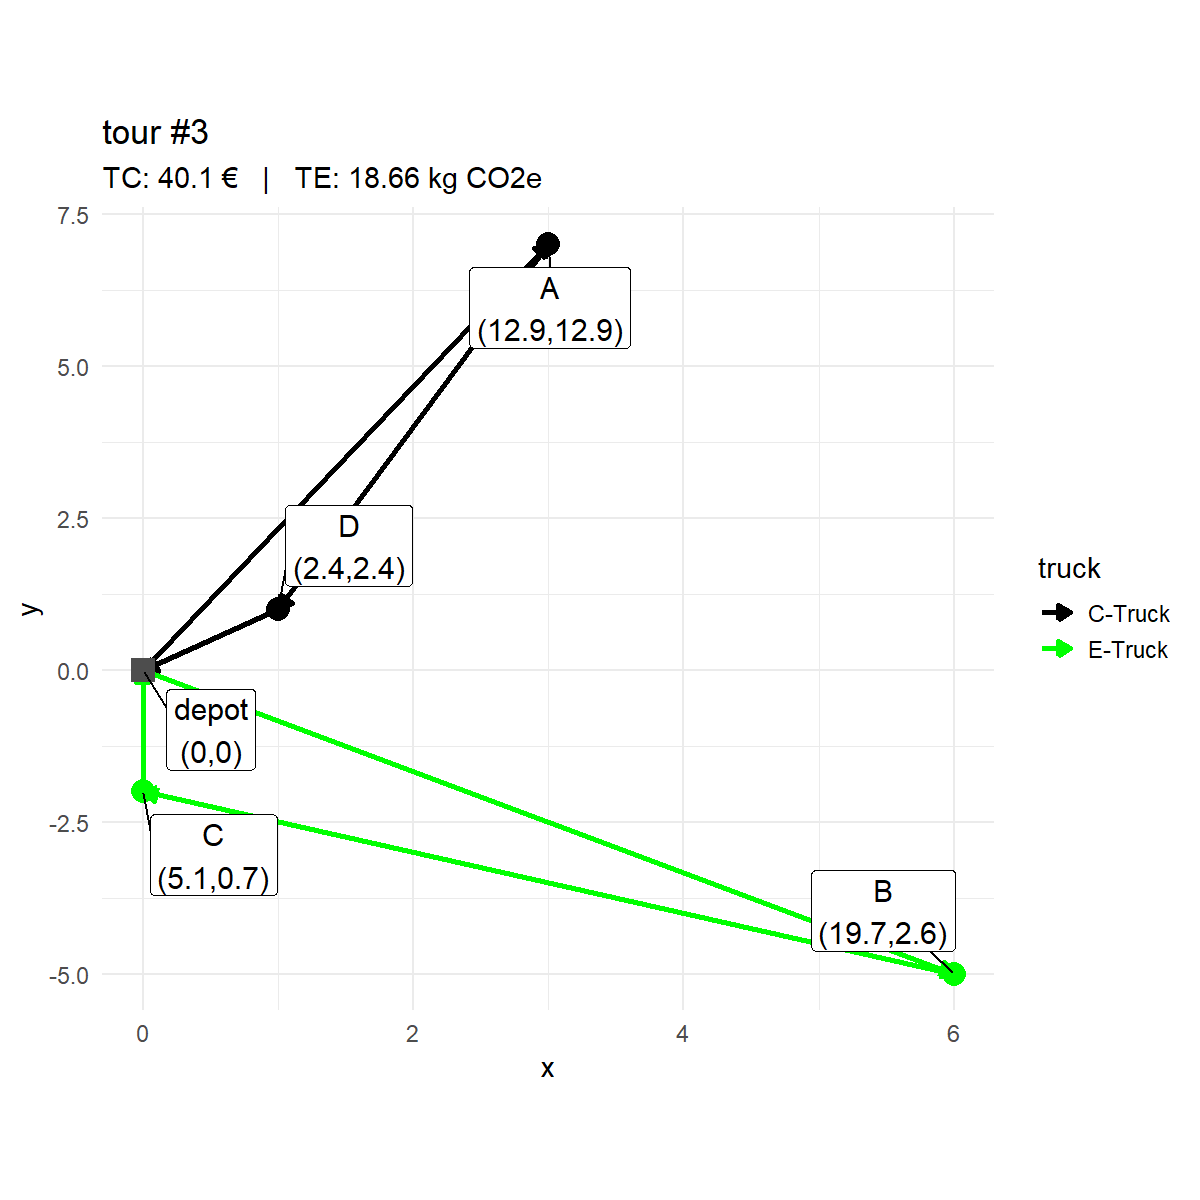
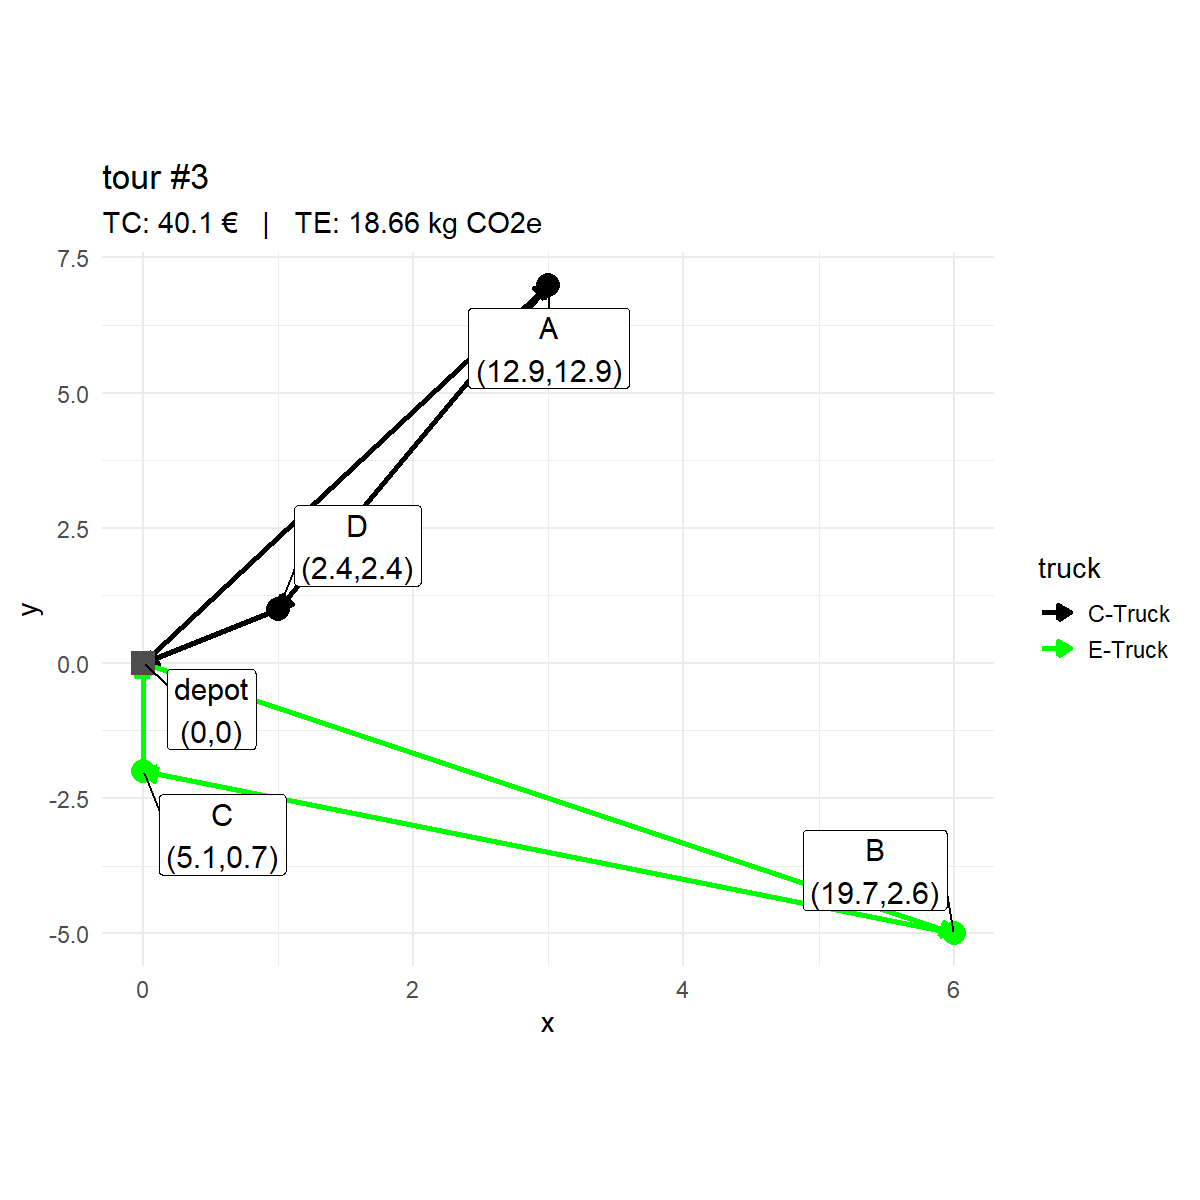
new comit

diff --git a/presentations/RITMO_052026/talk_kirschstein.html b/presentations/RITMO_052026/talk_kirschstein.html
@@ -125,7 +125,7 @@ class: inverse, center, middle
 ]
 --
 .col-50[
-&lt;img src="fig/transporeon_2022_Wtp.png" alt="" width="90%" style="display: block; margin: auto;" /&gt;
+&lt;img src="fig/transporeon_2022_Wtp.png" alt="" width="82%" style="display: block; margin: auto;" /&gt;
 (Jameson, Schack, Egloff et al., 2023) 
 ]
 
@@ -147,7 +147,7 @@ class: inverse, center, middle
 
 ## Motivation - Zulassungen von zero-emission vehicles (ZEV)
 
-&lt;img src="fig/sales_shares_zev.png" alt="" width="90%" style="display: block; margin: auto;" /&gt;
+&lt;img src="fig/sales_shares_zev.png" alt="" width="88%" style="display: block; margin: auto;" /&gt;
 
 (Mulholland and Benoit, 2026) 
 
@@ -156,12 +156,12 @@ class: inverse, center, middle
 ## Motivation - Zulassung von ZEV-LKW in Deutschland
 
 .col-50[
-<div id="htmlwidget-46b28243e946be292178" style="width:500px;height:500px;" class="plotly html-widget"></div>
-<script type="application/json" data-for="htmlwidget-46b28243e946be292178">{"x":{"data":[{"orientation":"v","width":[0.89999999999999991,0.90000000000000013,0.90000000000000036,0.90000000000000036],"base":[20674,24538,19728,35242],"x":[1,2,3,4],"y":[0,1,1,2],"text":["Jahr: 2022<br />Anzahl:     0<br />Technologie: H2","Jahr: 2023<br />Anzahl:     1<br />Technologie: H2","Jahr: 2024<br />Anzahl:     1<br />Technologie: H2","Jahr: 2025<br />Anzahl:     2<br />Technologie: H2"],"type":"bar","textposition":"none","marker":{"autocolorscale":false,"color":"rgba(240,128,128,1)","line":{"width":1.8897637795275593,"color":"transparent"}},"name":"H2","legendgroup":"H2","showlegend":true,"xaxis":"x","yaxis":"y","hoverinfo":"text","frame":null},{"orientation":"v","width":[0.89999999999999991,0.90000000000000013,0.90000000000000036,0.90000000000000036],"base":[18429,21947,17384,33573],"x":[1,2,3,4],"y":[2245,2591,2344,1669],"text":["Jahr: 2022<br />Anzahl:  2245<br />Technologie: LNG","Jahr: 2023<br />Anzahl:  2591<br />Technologie: LNG","Jahr: 2024<br />Anzahl:  2344<br />Technologie: LNG","Jahr: 2025<br />Anzahl:  1669<br />Technologie: LNG"],"type":"bar","textposition":"none","marker":{"autocolorscale":false,"color":"rgba(54,30,71,1)","line":{"width":1.8897637795275593,"color":"transparent"}},"name":"LNG","legendgroup":"LNG","showlegend":true,"xaxis":"x","yaxis":"y","hoverinfo":"text","frame":null},{"orientation":"v","width":[0.89999999999999991,0.90000000000000013,0.90000000000000036,0.90000000000000036],"base":[18352,21916,17107,27382],"x":[1,2,3,4],"y":[77,31,277,6191],"text":["Jahr: 2022<br />Anzahl:    77<br />Technologie: PHEV","Jahr: 2023<br />Anzahl:    31<br />Technologie: PHEV","Jahr: 2024<br />Anzahl:   277<br />Technologie: PHEV","Jahr: 2025<br />Anzahl:  6191<br />Technologie: PHEV"],"type":"bar","textposition":"none","marker":{"autocolorscale":false,"color":"rgba(224,5,20,1)","line":{"width":1.8897637795275593,"color":"transparent"}},"name":"PHEV","legendgroup":"PHEV","showlegend":true,"xaxis":"x","yaxis":"y","hoverinfo":"text","frame":null},{"orientation":"v","width":[0.89999999999999991,0.90000000000000013,0.90000000000000036,0.90000000000000036],"base":[18322,21790,17007,27275],"x":[1,2,3,4],"y":[30,126,100,107],"text":["Jahr: 2022<br />Anzahl:    30<br />Technologie: FC","Jahr: 2023<br />Anzahl:   126<br />Technologie: FC","Jahr: 2024<br />Anzahl:   100<br />Technologie: FC","Jahr: 2025<br />Anzahl:   107<br />Technologie: FC"],"type":"bar","textposition":"none","marker":{"autocolorscale":false,"color":"rgba(155,127,238,1)","line":{"width":1.8897637795275593,"color":"transparent"}},"name":"FC","legendgroup":"FC","showlegend":true,"xaxis":"x","yaxis":"y","hoverinfo":"text","frame":null},{"orientation":"v","width":[0.89999999999999991,0.90000000000000013,0.90000000000000036,0.90000000000000036],"base":[0,0,0,0],"x":[1,2,3,4],"y":[18322,21790,17007,27275],"text":["Jahr: 2022<br />Anzahl: 18322<br />Technologie: BEV","Jahr: 2023<br />Anzahl: 21790<br />Technologie: BEV","Jahr: 2024<br />Anzahl: 17007<br />Technologie: BEV","Jahr: 2025<br />Anzahl: 27275<br />Technologie: BEV"],"type":"bar","textposition":"none","marker":{"autocolorscale":false,"color":"rgba(94,62,225,1)","line":{"width":1.8897637795275593,"color":"transparent"}},"name":"BEV","legendgroup":"BEV","showlegend":true,"xaxis":"x","yaxis":"y","hoverinfo":"text","frame":null}],"layout":{"margin":{"t":24.634288086342885,"r":8.6342880863428846,"b":26.766293067662936,"l":71.664591116645923},"paper_bgcolor":"rgba(255,255,255,1)","font":{"color":"rgba(0,0,0,1)","family":"","size":17.268576172685769},"xaxis":{"domain":[0,1],"automargin":true,"type":"linear","autorange":false,"range":[0.40000000000000002,4.5999999999999996],"tickmode":"array","ticktext":["2022","2023","2024","2025"],"tickvals":[1,2,3,4],"categoryorder":"array","categoryarray":["2022","2023","2024","2025"],"nticks":null,"ticks":"","tickcolor":null,"ticklen":4.3171440431714423,"tickwidth":0,"showticklabels":true,"tickfont":{"color":"rgba(77,77,77,1)","family":"","size":13.814860938148611},"tickangle":-0,"showline":false,"linecolor":null,"linewidth":0,"showgrid":true,"gridcolor":"rgba(235,235,235,1)","gridwidth":0.78493528057662576,"zeroline":false,"anchor":"y","title":{"text":"","font":{"color":"rgba(0,0,0,1)","family":"","size":17.268576172685769}},"hoverformat":".2f"},"yaxis":{"domain":[0,1],"automargin":true,"type":"linear","autorange":false,"range":[-1762.2,37006.199999999997],"tickmode":"array","ticktext":["0","10.000","20.000","30.000"],"tickvals":[0,10000,20000,30000],"categoryorder":"array","categoryarray":["0","10.000","20.000","30.000"],"nticks":null,"ticks":"","tickcolor":null,"ticklen":4.3171440431714423,"tickwidth":0,"showticklabels":true,"tickfont":{"color":"rgba(77,77,77,1)","family":"","size":13.814860938148611},"tickangle":-0,"showline":false,"linecolor":null,"linewidth":0,"showgrid":true,"gridcolor":"rgba(235,235,235,1)","gridwidth":0.78493528057662576,"zeroline":false,"anchor":"x","title":{"text":"Zulassungen LKW (> 3.5 t)","font":{"color":"rgba(0,0,0,1)","family":"","size":17.268576172685769}},"hoverformat":".2f"},"shapes":[],"showlegend":true,"legend":{"bgcolor":null,"bordercolor":null,"borderwidth":0,"font":{"color":"rgba(0,0,0,1)","family":"","size":13.814860938148611},"orientation":"h","x":0.14999999999999999,"y":-0.14999999999999999,"xanchor":"center","yanchor":"top","title":{"text":"","font":{"color":"rgba(0,0,0,1)","family":"","size":17.268576172685769}}},"hovermode":"closest","width":500,"height":500,"barmode":"relative"},"config":{"doubleClick":"reset","modeBarButtonsToAdd":["hoverclosest","hovercompare"],"showSendToCloud":false},"source":"A","attrs":{"15c05ca24ff6":{"x":{},"y":{},"fill":{},"type":"bar"}},"cur_data":"15c05ca24ff6","visdat":{"15c05ca24ff6":["function (y) ","x"]},"highlight":{"on":"plotly_click","persistent":false,"dynamic":false,"selectize":false,"opacityDim":0.20000000000000001,"selected":{"opacity":1},"debounce":0},"shinyEvents":["plotly_hover","plotly_click","plotly_selected","plotly_relayout","plotly_brushed","plotly_brushing","plotly_clickannotation","plotly_doubleclick","plotly_deselect","plotly_afterplot","plotly_sunburstclick"],"base_url":"https://plot.ly"},"evals":[],"jsHooks":[]}</script>
+<div id="htmlwidget-46b28243e946be292178" style="width:500px;height:475px;" class="plotly html-widget"></div>
+<script type="application/json" data-for="htmlwidget-46b28243e946be292178">{"x":{"data":[{"orientation":"v","width":[0.89999999999999991,0.90000000000000013,0.90000000000000036,0.90000000000000036],"base":[20674,24538,19728,35242],"x":[1,2,3,4],"y":[0,1,1,2],"text":["Jahr: 2022<br />Anzahl:     0<br />Technologie: H2","Jahr: 2023<br />Anzahl:     1<br />Technologie: H2","Jahr: 2024<br />Anzahl:     1<br />Technologie: H2","Jahr: 2025<br />Anzahl:     2<br />Technologie: H2"],"type":"bar","textposition":"none","marker":{"autocolorscale":false,"color":"rgba(240,128,128,1)","line":{"width":1.8897637795275593,"color":"transparent"}},"name":"H2","legendgroup":"H2","showlegend":true,"xaxis":"x","yaxis":"y","hoverinfo":"text","frame":null},{"orientation":"v","width":[0.89999999999999991,0.90000000000000013,0.90000000000000036,0.90000000000000036],"base":[18429,21947,17384,33573],"x":[1,2,3,4],"y":[2245,2591,2344,1669],"text":["Jahr: 2022<br />Anzahl:  2245<br />Technologie: LNG","Jahr: 2023<br />Anzahl:  2591<br />Technologie: LNG","Jahr: 2024<br />Anzahl:  2344<br />Technologie: LNG","Jahr: 2025<br />Anzahl:  1669<br />Technologie: LNG"],"type":"bar","textposition":"none","marker":{"autocolorscale":false,"color":"rgba(54,30,71,1)","line":{"width":1.8897637795275593,"color":"transparent"}},"name":"LNG","legendgroup":"LNG","showlegend":true,"xaxis":"x","yaxis":"y","hoverinfo":"text","frame":null},{"orientation":"v","width":[0.89999999999999991,0.90000000000000013,0.90000000000000036,0.90000000000000036],"base":[18352,21916,17107,27382],"x":[1,2,3,4],"y":[77,31,277,6191],"text":["Jahr: 2022<br />Anzahl:    77<br />Technologie: PHEV","Jahr: 2023<br />Anzahl:    31<br />Technologie: PHEV","Jahr: 2024<br />Anzahl:   277<br />Technologie: PHEV","Jahr: 2025<br />Anzahl:  6191<br />Technologie: PHEV"],"type":"bar","textposition":"none","marker":{"autocolorscale":false,"color":"rgba(224,5,20,1)","line":{"width":1.8897637795275593,"color":"transparent"}},"name":"PHEV","legendgroup":"PHEV","showlegend":true,"xaxis":"x","yaxis":"y","hoverinfo":"text","frame":null},{"orientation":"v","width":[0.89999999999999991,0.90000000000000013,0.90000000000000036,0.90000000000000036],"base":[18322,21790,17007,27275],"x":[1,2,3,4],"y":[30,126,100,107],"text":["Jahr: 2022<br />Anzahl:    30<br />Technologie: FC","Jahr: 2023<br />Anzahl:   126<br />Technologie: FC","Jahr: 2024<br />Anzahl:   100<br />Technologie: FC","Jahr: 2025<br />Anzahl:   107<br />Technologie: FC"],"type":"bar","textposition":"none","marker":{"autocolorscale":false,"color":"rgba(155,127,238,1)","line":{"width":1.8897637795275593,"color":"transparent"}},"name":"FC","legendgroup":"FC","showlegend":true,"xaxis":"x","yaxis":"y","hoverinfo":"text","frame":null},{"orientation":"v","width":[0.89999999999999991,0.90000000000000013,0.90000000000000036,0.90000000000000036],"base":[0,0,0,0],"x":[1,2,3,4],"y":[18322,21790,17007,27275],"text":["Jahr: 2022<br />Anzahl: 18322<br />Technologie: BEV","Jahr: 2023<br />Anzahl: 21790<br />Technologie: BEV","Jahr: 2024<br />Anzahl: 17007<br />Technologie: BEV","Jahr: 2025<br />Anzahl: 27275<br />Technologie: BEV"],"type":"bar","textposition":"none","marker":{"autocolorscale":false,"color":"rgba(94,62,225,1)","line":{"width":1.8897637795275593,"color":"transparent"}},"name":"BEV","legendgroup":"BEV","showlegend":true,"xaxis":"x","yaxis":"y","hoverinfo":"text","frame":null}],"layout":{"margin":{"t":24.634288086342885,"r":8.6342880863428846,"b":26.766293067662939,"l":71.664591116645923},"paper_bgcolor":"rgba(255,255,255,1)","font":{"color":"rgba(0,0,0,1)","family":"","size":17.268576172685766},"xaxis":{"domain":[0,1],"automargin":true,"type":"linear","autorange":false,"range":[0.40000000000000002,4.5999999999999996],"tickmode":"array","ticktext":["2022","2023","2024","2025"],"tickvals":[1,2,3,4],"categoryorder":"array","categoryarray":["2022","2023","2024","2025"],"nticks":null,"ticks":"","tickcolor":null,"ticklen":4.3171440431714414,"tickwidth":0,"showticklabels":true,"tickfont":{"color":"rgba(77,77,77,1)","family":"","size":13.814860938148612},"tickangle":-0,"showline":false,"linecolor":null,"linewidth":0,"showgrid":true,"gridcolor":"rgba(235,235,235,1)","gridwidth":0.78493528057662576,"zeroline":false,"anchor":"y","title":{"text":"","font":{"color":"rgba(0,0,0,1)","family":"","size":17.268576172685766}},"hoverformat":".2f"},"yaxis":{"domain":[0,1],"automargin":true,"type":"linear","autorange":false,"range":[-1762.2,37006.199999999997],"tickmode":"array","ticktext":["0","10.000","20.000","30.000"],"tickvals":[0,10000,20000,30000],"categoryorder":"array","categoryarray":["0","10.000","20.000","30.000"],"nticks":null,"ticks":"","tickcolor":null,"ticklen":4.3171440431714423,"tickwidth":0,"showticklabels":true,"tickfont":{"color":"rgba(77,77,77,1)","family":"","size":13.814860938148611},"tickangle":-0,"showline":false,"linecolor":null,"linewidth":0,"showgrid":true,"gridcolor":"rgba(235,235,235,1)","gridwidth":0.78493528057662576,"zeroline":false,"anchor":"x","title":{"text":"Zulassungen LKW (> 3.5 t)","font":{"color":"rgba(0,0,0,1)","family":"","size":17.268576172685766}},"hoverformat":".2f"},"shapes":[],"showlegend":true,"legend":{"bgcolor":null,"bordercolor":null,"borderwidth":0,"font":{"color":"rgba(0,0,0,1)","family":"","size":13.814860938148612},"orientation":"h","x":0.14999999999999999,"y":-0.14999999999999999,"xanchor":"center","yanchor":"top","title":{"text":"","font":{"color":"rgba(0,0,0,1)","family":"","size":17.268576172685766}}},"hovermode":"closest","width":500,"height":475,"barmode":"relative"},"config":{"doubleClick":"reset","modeBarButtonsToAdd":["hoverclosest","hovercompare"],"showSendToCloud":false},"source":"A","attrs":{"9e9c44da1012":{"x":{},"y":{},"fill":{},"type":"bar"}},"cur_data":"9e9c44da1012","visdat":{"9e9c44da1012":["function (y) ","x"]},"highlight":{"on":"plotly_click","persistent":false,"dynamic":false,"selectize":false,"opacityDim":0.20000000000000001,"selected":{"opacity":1},"debounce":0},"shinyEvents":["plotly_hover","plotly_click","plotly_selected","plotly_relayout","plotly_brushed","plotly_brushing","plotly_clickannotation","plotly_doubleclick","plotly_deselect","plotly_afterplot","plotly_sunburstclick"],"base_url":"https://plot.ly"},"evals":[],"jsHooks":[]}</script>
 ]
 
 .col-50[
-&lt;img src="fig/transporeon_2024_strategies.png" alt="" width="99%" style="display: block; margin: auto;" /&gt;
+&lt;img src="fig/transporeon_2024_strategies.png" alt="" width="95%" style="display: block; margin: auto;" /&gt;
 (Lehmacher and Lind, 2024) 
 ]
 
@@ -194,10 +194,10 @@ class: center, middle
   - Flotte: 1 Diesel-LKW, 1 Batterie-LWK
 - ökonomische Annahmen:
   - Ziel Kunden: Entweder Kosten- oder Emissionsminimierer
-  - Ziel Spediteuer: Maximiere Kundenzufriedenheit
   - Allokation: Kosten und Emissionen einer Tour werden nach Direktdistanz zwischen Depot und Kundenort allokiert
 ]
 `\(\Rightarrow\)` Jede Tour hat maximale Länge von 2 Kunden `\(\rightarrow\)` insgesamt 6 Tourenpläne möglich 
+&lt;!-- `\(\Rightarrow\)` mögliche Zielfunktion Spediteur: Maximiere Kundenzufriedenheit `\(\max \rightarrow \sum_{l \in \mathcal{L}} x_l \cdot  os_{l}\)`  --&gt;
 ]
 --
 .col-50[
@@ -226,11 +226,6 @@ class: center, middle
    &lt;td style="text-align:right;"&gt; 6 &lt;/td&gt;
   &lt;/tr&gt;
   &lt;tr&gt;
-   &lt;td style="text-align:left;"&gt; Days of use per year &lt;/td&gt;
-   &lt;td style="text-align:right;"&gt; 240 &lt;/td&gt;
-   &lt;td style="text-align:right;"&gt; 240 &lt;/td&gt;
-  &lt;/tr&gt;
-  &lt;tr&gt;
    &lt;td style="text-align:left;"&gt; Annual mileage (km) &lt;/td&gt;
    &lt;td style="text-align:right;"&gt; 120,000 &lt;/td&gt;
    &lt;td style="text-align:right;"&gt; 90,000 &lt;/td&gt;
@@ -244,11 +239,6 @@ class: center, middle
    &lt;td style="text-align:left;font-weight: bold;background-color: rgba(240, 240, 240, 255) !important;"&gt; Economic variables &lt;/td&gt;
    &lt;td style="text-align:right;font-weight: bold;background-color: rgba(240, 240, 240, 255) !important;"&gt;  &lt;/td&gt;
    &lt;td style="text-align:right;font-weight: bold;background-color: rgba(240, 240, 240, 255) !important;"&gt;  &lt;/td&gt;
-  &lt;/tr&gt;
-  &lt;tr&gt;
-   &lt;td style="text-align:left;"&gt; Interest rate &lt;/td&gt;
-   &lt;td style="text-align:right;"&gt; 5% &lt;/td&gt;
-   &lt;td style="text-align:right;"&gt; 5% &lt;/td&gt;
   &lt;/tr&gt;
   &lt;tr&gt;
    &lt;td style="text-align:left;"&gt; Energy price &lt;/td&gt;
@@ -598,16 +588,14 @@ class: inverse, center, middle
 
 **Nächste Schritte**
 
-- Formale Modellierung des präferenz-orientierten VRP mit gemischter Flotte
-- Entwicklung exakter und heuristischer Lösungsverfahren
-- Instanzgenerierung auf Basis realistischer Logistikdaten (Projekt: REWE, Einride)
-- Simulationsrahmen für mehrperiodische Flottenübergangsszenarien
-- Validierung und Benchmarking gegen Literaturansätze
-
+- Formale Modellierung des präferenz-orientierten VRP mit gemischter Flotte `\(\rightarrow\)` Präferenzen und Nutzen
+- Modellierungsansatz Flottenplanung `\(\rightarrow\)` dynamische Programmierung vs. rollierendes, mehrperiodiges MILP
+- Sammlung techno-ökonomischer Daten von Antriebssystemen `\(\rightarrow\)` B-LKW, H2-LKW, FC-LKW, Gas-LKW, etc.
+- Instanzgenerierung auf Basis realistischer Logistikdaten 
+- Simulationsrahmen für mehrperiodische Flottenszenarien `\(\rightarrow\)` Einfluss von Infrastruktur und Betriebsmodi
 --
-
 .center[
-&lt;br&gt;&lt;br&gt;
+&lt;br&gt;
 **Vielen Dank für Ihre Aufmerksamkeit!**
 
 *Fragen und Anmerkungen sind herzlich willkommen.*